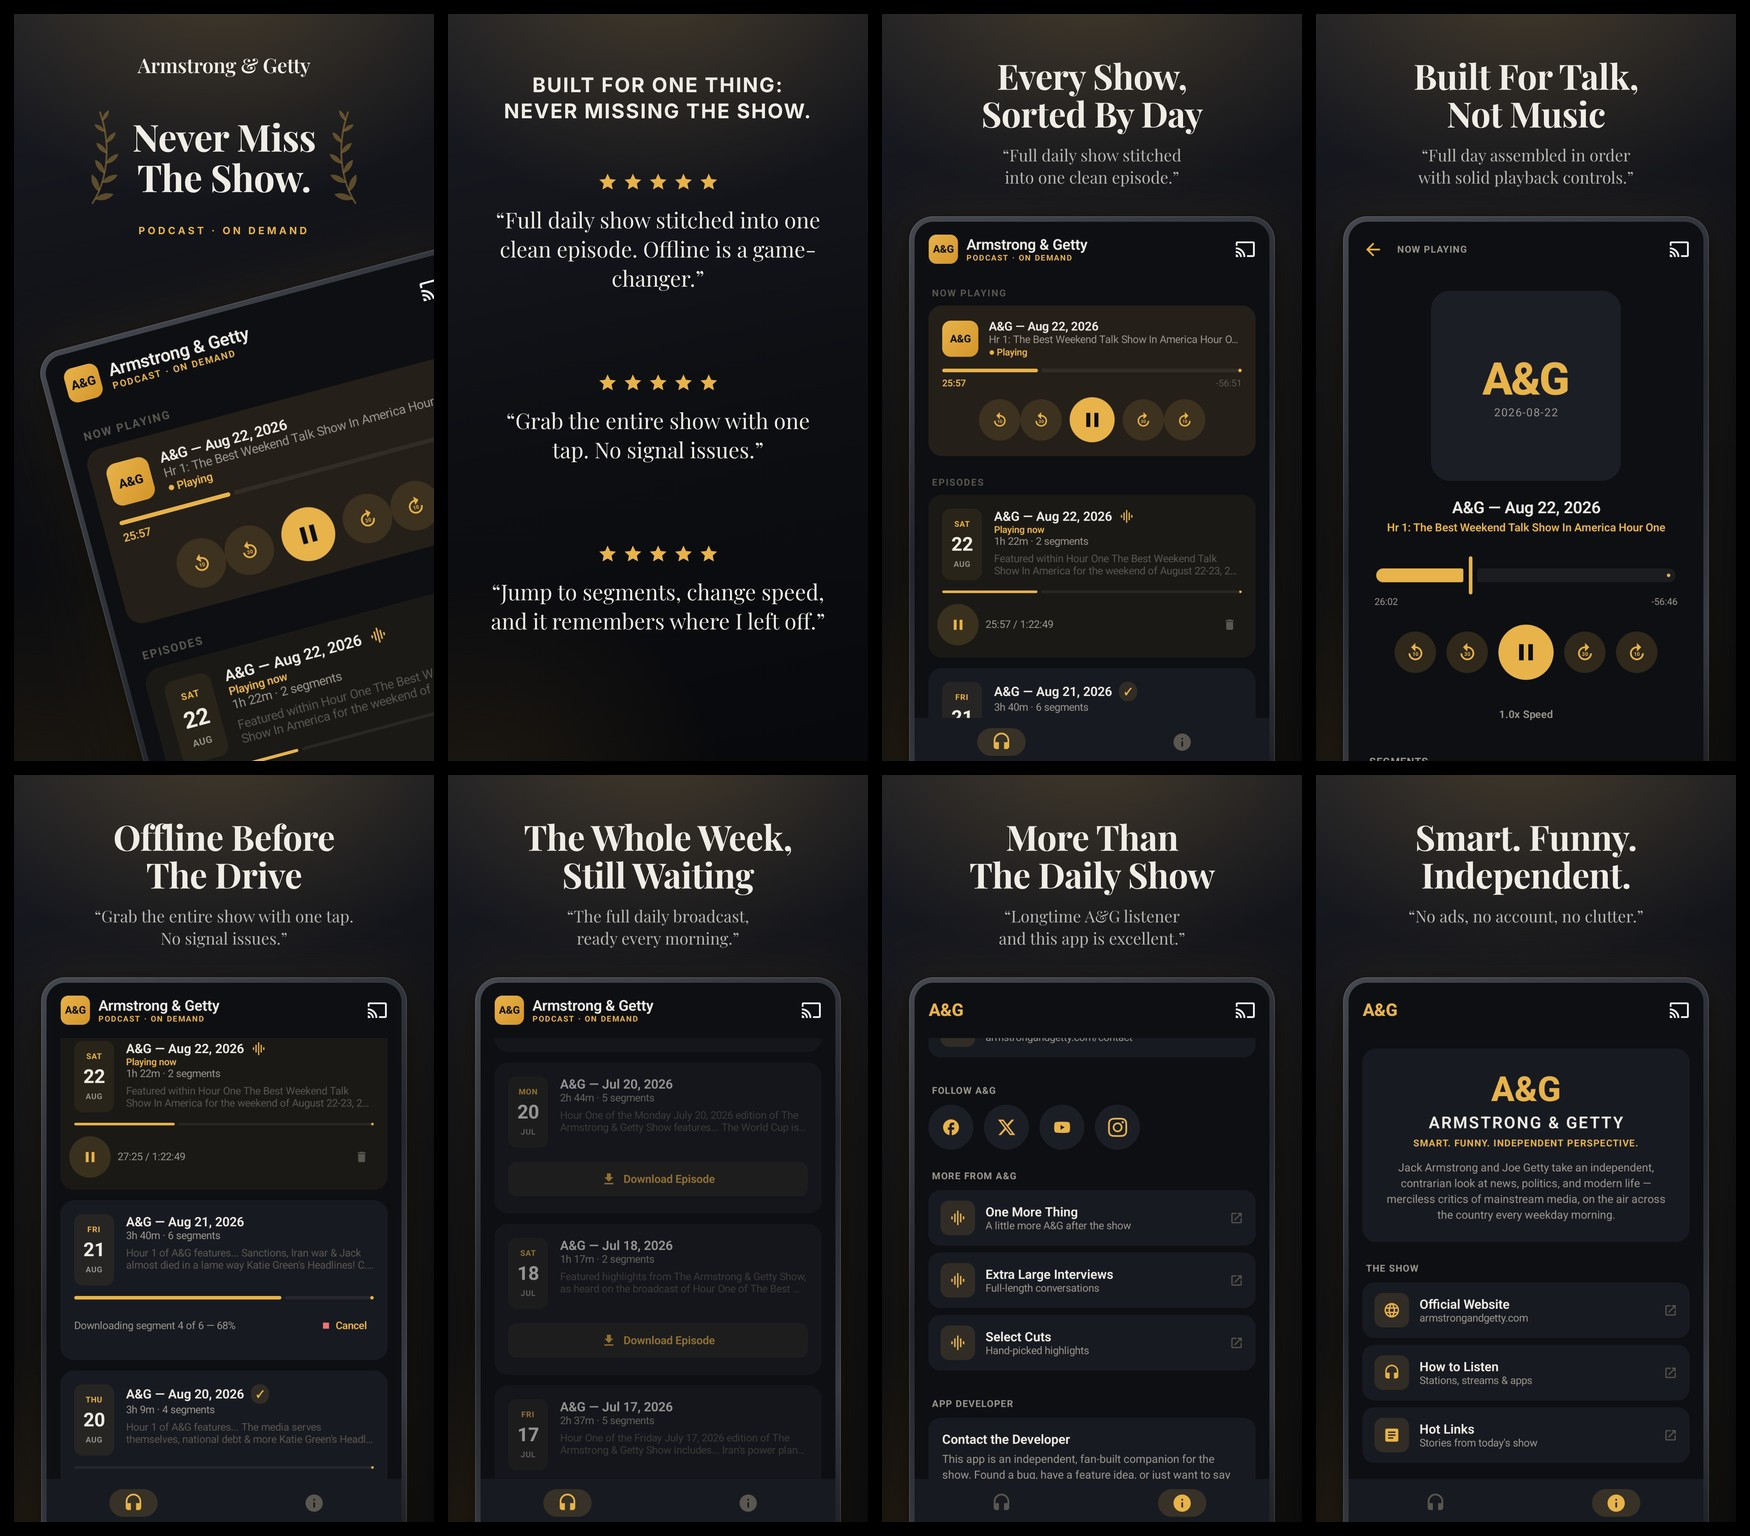
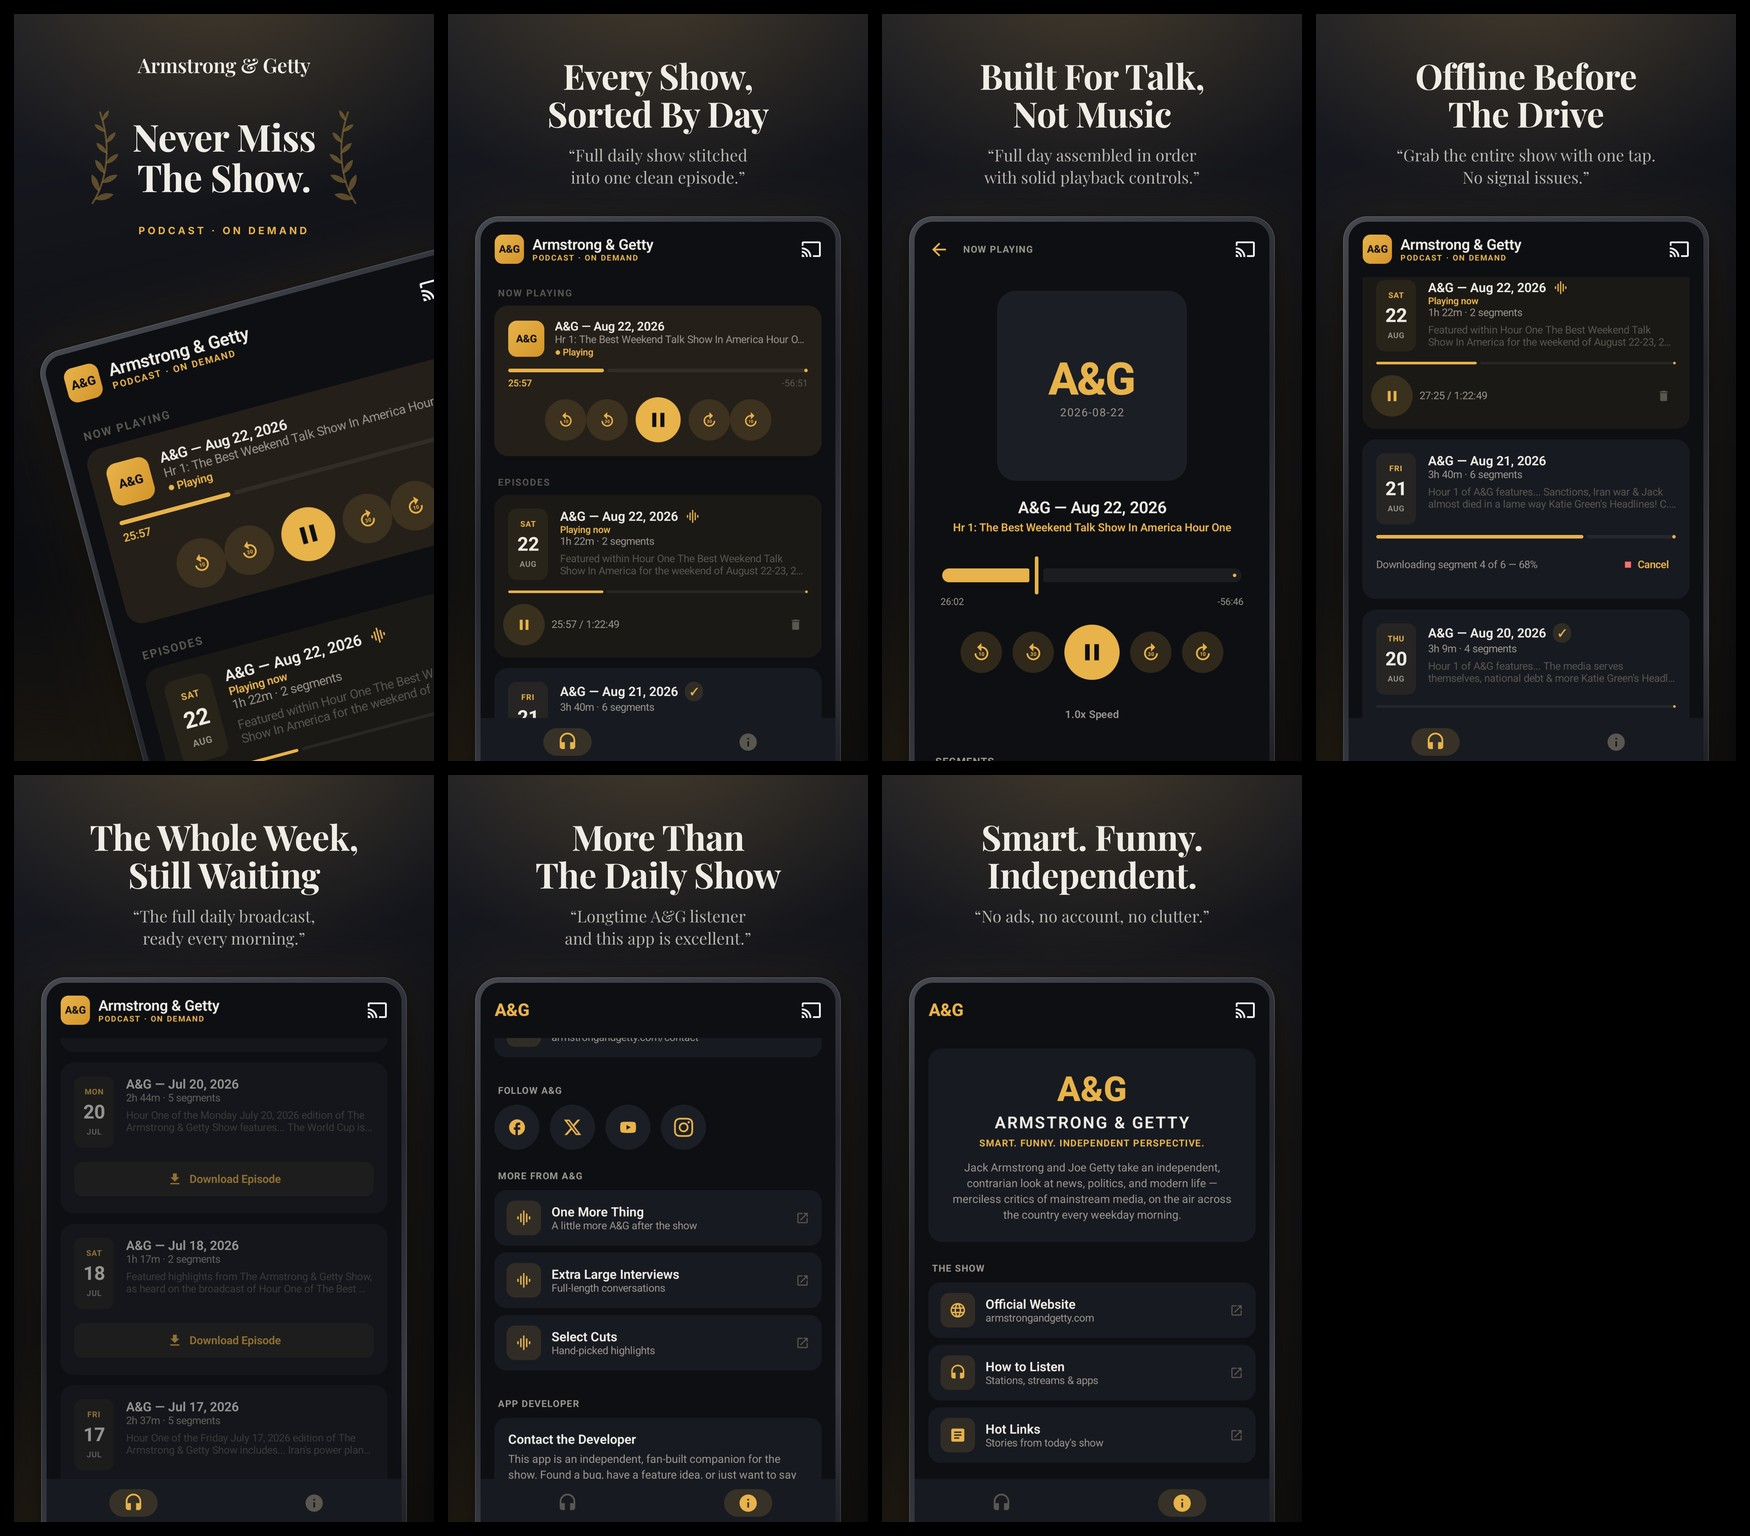
Remove the review-wall screenshots after the Play metadata rejection
Google Play rejected the Aug 2026 submission under its Metadata policy
over the five-star testimonial slides. Drop the two review-wall slides
from the promo builder so they cannot be regenerated, delete the six
PNGs from the store sets, rebuild the contact sheets (7 slides per set),
and record the no-review-walls rule in the screenshot docs.

diff --git a/docs/promo-screenshots.md b/docs/promo-screenshots.md
@@ -13,14 +13,13 @@ Source: `tools/promo-screenshots/buildPromoScreenshots.mjs`.
 
 | Profile | Dimensions | Slides | Output |
 |---|---|---|---|
-| `iphone-6.9` | 1320×2868 | 9 | `screenshots/app-store/iphone-6.9/` |
-| `ipad-13` | 2064×2752 | 9 | `screenshots/app-store/ipad-13/` |
-| `android-phone` | 1080×1920 | 8 | `screenshots/play-store/phone/` |
-| `android-tablet` | 1440×2560 | 8 | `screenshots/play-store/tablet/` |
+| `iphone-6.9` | 1320×2868 | 7 | `screenshots/app-store/iphone-6.9/` |
+| `ipad-13` | 2064×2752 | 7 | `screenshots/app-store/ipad-13/` |
+| `android-phone` | 1080×1920 | 7 | `screenshots/play-store/phone/` |
+| `android-tablet` | 1440×2560 | 7 | `screenshots/play-store/tablet/` |
 
-**Play caps every device type at 8 screenshots**, so the two Play profiles
-exclude the second review wall (`09-reviews`); the builder throws rather than
-silently truncating if a Play profile is ever configured past 8. It also prunes
+**Play caps every device type at 8 screenshots**; the builder throws rather
+than silently truncating if a Play profile is ever configured past 8. It also prunes
 any PNG in an output folder that is not in the current slide list, so a renamed
 or dropped slide cannot leave an orphan sitting in the upload folder. Every output is RGB PNG with no alpha channel: App
 Store Connect rejects alpha and Play requires "24-bit PNG (no alpha)". The
@@ -33,7 +32,7 @@ Flags: `--profile=android-phone`, `--only=04`, `--batch=ag-M-D-YY`.
 ## Capturing the raw sources
 
 `screenshots/<batch>/{ios,android}/<profile>/` holds the raw device captures.
-They are real app screenshots, not mockups. Four states per profile:
+They are real app screenshots, not mockups. Six states per profile:
 
 | File | State |
 |---|---|
@@ -105,18 +104,20 @@ Re-measure it if the emulator density changes.
 | # | File | Slot |
 |---|------|------|
 | 1 | `01-hero.png` | Fly-in hero — wordmark, laurel-framed line, tilted device |
-| 2 | `02-reviews.png` | Five-star review wall |
-| 3 | `03-episodes.png` | Episode list |
-| 4 | `04-player.png` | Player and skip controls |
-| 5 | `05-downloads.png` | Offline downloads |
-| 6 | `06-catalog.png` | Back catalogue |
-| 7 | `07-more.png` | More from A&G |
-| 8 | `08-about.png` | About the show |
-| 9 | `09-reviews.png` | Five-star review wall — **iOS only** |
+| 2 | `03-episodes.png` | Episode list |
+| 3 | `04-player.png` | Player and skip controls |
+| 4 | `05-downloads.png` | Offline downloads |
+| 5 | `06-catalog.png` | Back catalogue |
+| 6 | `07-more.png` | More from A&G |
+| 7 | `08-about.png` | About the show |
 
-Each feature slide (3–8) pairs a two-line serif headline with a short quoted
-review fragment, exactly as the review walls do — the fragment is always a real
-excerpt, never invented copy.
+Ids `02` and `09` are retired: they were five-star review walls, removed after
+Google Play rejected the Aug 2026 submission under its Metadata policy. The
+remaining ids are deliberately not renumbered, so the files on disk keep the
+names of the assets already uploaded to both stores.
+
+Each feature slide pairs a two-line serif headline with a short quoted review
+fragment — the fragment is always a real excerpt, never invented copy.
 
 Measurements are stated per profile in the builder's `PROFILES` map. The two
 Play profiles share a shape (both 9:16), so the tablet is
@@ -134,7 +135,7 @@ Palette comes from the app's own Compose theme
 gold, `#F0EDE6` text.
 
 Type is **Playfair Display** for headlines and quotations and **Inter** for the
-uppercase review-wall eyebrows and the hero kicker. The app itself declares no
+uppercase hero kicker. The app itself declares no
 custom typeface (Compose renders SF on iOS, Roboto on Android), so the promo
 face is a deliberate marketing choice: a high-contrast news serif that suits a
 talk-radio show and gives the set the same editorial weight as the sibling
@@ -144,7 +145,12 @@ falling back to a system face and reflowing the art-directed line breaks.
 
 ## Copy rules
 
-- **Review text is quotation, trimmed.** Every quote on slides 2 and 7 is a
+- **No review walls or star ratings — ever.** Google Play rejected the Aug
+  2026 submission under its Metadata policy over the five-star testimonial
+  slides (the app was unavailable until they were removed from the listing and
+  the release was resubmitted). Star imagery and testimonial walls must not
+  return to any set, Play or App Store.
+- **Review text is quotation, trimmed.** Every feature-slide quote is a
   shortened excerpt of a real supplied review, cut to 10–13 words so it stays
   legible at store-thumbnail size. Do not paraphrase a review into something
   the reviewer did not say, and never fabricate one: invented testimonials
